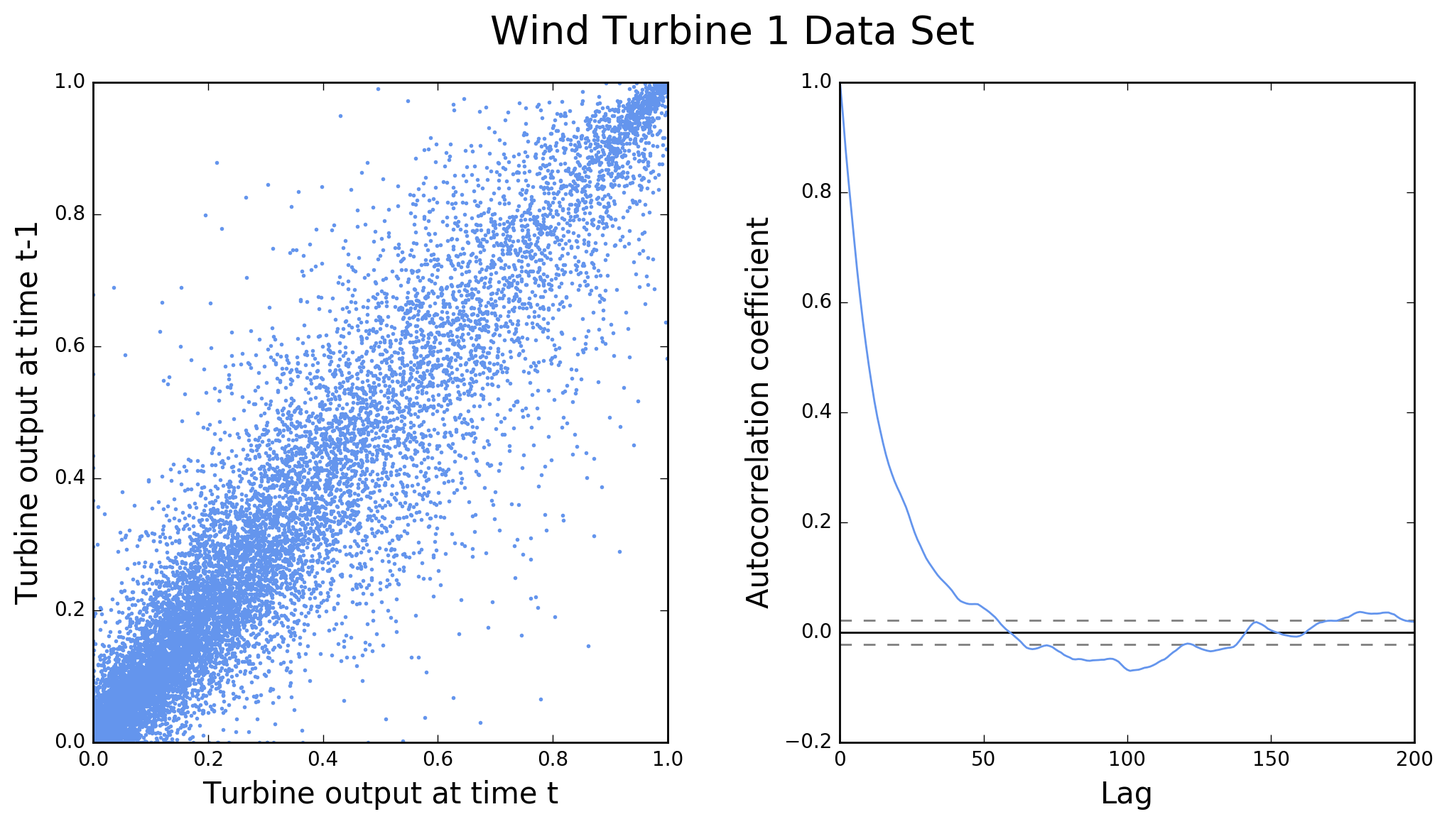
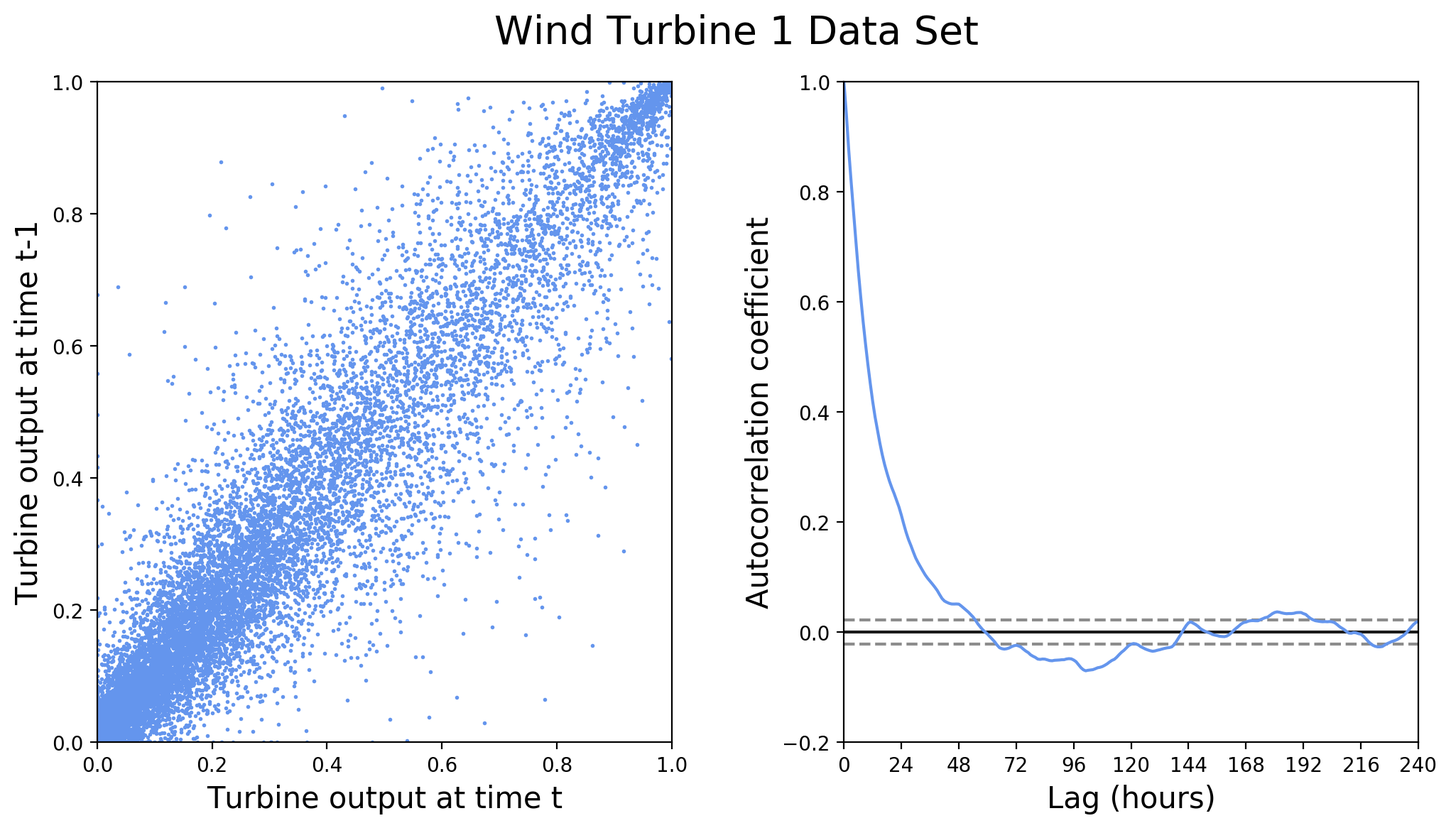
Updated blog post on Wind Turbines

diff --git a/_posts/2017-04-30-WindPower.md b/_posts/2017-04-30-WindPower.md
@@ -2,9 +2,10 @@
 layout: post
 title: "Forecasting Wind Power"
 date: 30 April 2017
-excerpt: "Data collected on the power output of an array of wind turbines provide an interesting case study for machine learning algorithms. I probe it with a random forest from scikit-learn, the gradient boosting algorithm XGBoost, and a generalized linear model from the R package GAMLSS. Choosing the best model can be surprisingly tricky..."
+excerpt: "Data collected on the power output of an array of wind turbines provide an interesting case study for machine learning algorithms. I tried a random forest from scikit-learn, the gradient boosting algorithm XGBoost, and a generalized linear model from the R package GAMLSS. Choosing the best model can be surprisingly tricky..."
 comments: true
 ---
+[Revised 9 January 2020]
 
 {% marginnote 'WTMN-1' '**Contents:** <br>[1. The Hackathon&#39;s Challenge](#TheChallenge) <br>[2. The Wind Turbine Data Set](#WindTurbineDataSet) <br>[3. Random Forest Analysis](#RandomForestAnalysis) <br>[4. Gradient Boosting with XGBoost](#XGBoost) <br>[5. A Generalized Linear Model](#GeneralizedAdditiveModel) <br>[6. Summary and Private Leaderboard](#Summary) <br>[7. Technical Note](#TechnicalNote)' %}
 On July 19 and 20, 2016, the [H2O Open Tour](http://open.h2o.ai/nyc.html) came to the [IAC building](https://en.wikipedia.org/wiki/IAC_Building) in New York City to present their product and foster community with the help of tutorials, talks, social events, and a [hackathon](https://datahack.analyticsvidhya.com/contest/h2o-open-tour-nyc-hackathon/). The hackathon was interesting, so that I (sporadically) continued working on it after the conference. This post summarizes my findings.
@@ -63,29 +64,31 @@ The spectrum displays two noteworthy features: a large spike near 0, and a bump 
 
 Figure 2 illustrates the effect of the cut-in speed for turbine 9. Each dot in this figure is the tip of a horizontal wind velocity vector with tail at (0,0). Orange dots correspond to zero turbine output and congregate at low wind velocities. Blue dots correspond to non-zero turbine output and form a donut shape around the orange ones.
 
-{% maincolumn "assets/img/blog/WindTurbines/donut_plots.png" "Figure 2: Scatter plots of zonal versus meridional wind velocity components at heights of 10m (left) and 100m (right) above ground, for turbine 9. Turbine output is zero for orange dots and greater than zero for blue dots. The red cross at the center of each plot indicates zero wind velocity. Note how wind velocities tend to be higher at 100m than at 10m." %}
+{% maincolumn "assets/img/blog/WindTurbines/donut_plots.png" "Figure 2: Scatter plots of zonal versus meridional wind velocity components at heights of 10m (left) and 100m (right) above ground, for turbine 9. Turbine output is zero for orange dots and greater than zero for blue dots. The red cross at the center of each plot indicates zero wind velocity." %}
 
-Since the measurements were taken at one-hour intervals, they are serially correlated. Figure 3 illustrates this correlation for the turbine-1 power output.
+{% marginfigure "Fig03" "assets/img/blog/WindTurbines/H100_vs_H10.png" "Figure 3: Scatter plot of horizontal wind speed at 100m above ground versus that at 10m above ground, in zone 9. (The wind speed units are unknown.)" %} Note how wind velocities tend to be higher at 100m than at 10m. The simplest model for vertical wind profiles is a [power law](https://en.wikipedia.org/wiki/Wind_profile_power_law), according to which the ratio of wind speeds at two different heights is a constant. Figure 3 illustrates this model by showing horizontal wind speeds measured at 100m above ground, versus 10m, in zone 9.  The model is not very good for the data at hand. The ratio between the two wind speeds in the figure varies between about 1.3 and 3.0, suggesting that knowledge of the wind speed at one height provides only limited information about wind speed at another height.
 
-{% maincolumn "assets/img/blog/WindTurbines/autocorrelations.png" "Figure 3 Left: Scatter plot of turbine 1 output at time t versus turbine 1 output at time t minus one hour. Right: Autocorrelation of turbine 1 outputs for the first 200 lags. The dashed lines indicate the 99% confidence interval on autocorrelation if the latter is purely random." %}
+Since the measurements were taken at one-hour intervals, they are serially correlated. Figure 4 illustrates this correlation for the turbine-1 power output.
 
-Although the data set is structured in such a way that each record associates one of ten turbines with only one set of wind velocity measurements (U10, U100, V10, and V100), it is instructive to see how the power output of a given turbine correlates with wind measurements near other turbines. This is shown in Figure 4 for turbine 1. Note that for this turbine the strongest correlation appears to be with wind speeds measured near turbine 7.
+{% maincolumn "assets/img/blog/WindTurbines/autocorrelations.png" "Figure 4 Left: Scatter plot of turbine 1 output at time t versus turbine 1 output at time t minus one hour. Right: Autocorrelation of turbine 1 outputs for the first 200 lags. The dashed lines indicate the 99% confidence interval on autocorrelation if the latter is purely random." %}
 
-{% fullwidth "assets/img/blog/WindTurbines/power_vs_windspeed.png" "Figure 4: Scatter plots of turbine 1 power output versus horizontal wind speed (the sum in quadrature of U10 and V10). Wind velocity is measured at eight stations located near the ten turbines. Turbines 4 and 5 share a wind measurement station, as do turbines 7 and 8. To facilitate comparison, the x- and y-scales are the same in all subplots." %}
+Although the data set is structured in such a way that each record associates one of ten turbines with only one set of wind velocity measurements (U10, U100, V10, and V100), it is instructive to see how the power output of a given turbine correlates with wind measurements near other turbines. This is shown in Figure 5 for turbine 1. Note that for this turbine the strongest correlation appears to be with wind speeds measured near turbine 7.
 
-Let's look at this more closely. How do turbine power and horizontal wind speed vary as a function of time? This is shown in Figure 5. Peaks in wind speed correspond to peaks in turbine power, and the effect of the cut-in speed is also visible (periods of zero turbine output associated with low, but non-zero wind speed).
+{% fullwidth "assets/img/blog/WindTurbines/power_vs_windspeed.png" "Figure 5: Scatter plots of turbine 1 power output versus horizontal wind speed (the sum in quadrature of U10 and V10). Wind velocity is measured at eight stations located near the ten turbines. Turbines 4 and 5 share a wind measurement station, as do turbines 7 and 8. To facilitate comparison, the x- and y-scales are the same in all subplots." %}
+
+Let's look at this more closely. How do turbine power and horizontal wind speed vary as a function of time? This is shown in Figure 6. Peaks in wind speed correspond to peaks in turbine power, and the effect of the cut-in speed is also visible (periods of zero turbine output associated with low, but non-zero wind speed).
 
 There is also evidence of small random fluctuations on top of broad patterns. Presumably only the broad patterns are significant, being induced by actual changes in wind speed, and the small fluctuations are  measurement errors. For improving turbine output predictions it may help to average out the small fluctuations in measured wind speed, but the fluctuations in measured turbine output represent an irreducible limit on predictability.
 
-{% fullwidth "assets/img/blog/WindTurbines/power_wind_vs_time.png" "Figure 5: Turbine 1 power and zone 7 wind speed, as a function of time in hours, for the first 400 hours in the training data set. The turbine power is expressed as a fraction of total capacity, and the wind speed is rescaled so as to fit in the same plot." %}
+{% fullwidth "assets/img/blog/WindTurbines/power_wind_vs_time.png" "Figure 6: Turbine 1 power and zone 7 wind speed, as a function of time in hours, for the first 400 hours in the training data set. The turbine power is expressed as a fraction of total capacity, and the wind speed is rescaled so as to fit in the same plot." %}
 
 This brief exploration of the data set suggests some strategies for analysis:
 
 1. Use *all* wind measurements for predicting each turbine output. Since there are eight wind velocity measurement stations and four measurements per station, this yields 32 features for predicting turbine output.
 
-2. From the time stamp it may be useful to extract separately year, day of the year, and hour. This could help tease out effects due to daily and seasonal wind patterns.
+2. From the time stamp it may be useful to extract separately year, day of the year, and hour. This could help tease out effects due to daily and seasonal wind patterns. Once we extract time stamp components, two issues arise w.r.t. training models. The first one is data type: are time stamp components numerical or categorical, and how should they be presented to the model? Should we apply one-hot encoding? The second issue is the cyclical nature of the hour and day features. Hour 24 of one day is adjacent to hour 1 of the next day, just as day 365 of one year is adjacent to day 1 of the next year. Should we transform these features to make this adjacency numerically true, and if so, how?
 
-3. Since the observed wind speeds exhibit fluctuations due to measurement error (Figure 5), we may be able to improve precision by computing a rolling window average. In other words, to predict turbine output at time t, use an average of wind speed measurements at times t, t-1, t-2, etc. Exactly how many measurements to include should be determined by looking at the desired performance measure, i.e. RMSE.
+3. Since the observed wind speeds exhibit fluctuations due to measurement error (Figure 6), we may be able to improve precision by computing a rolling window average. In other words, to predict turbine output at time t, use an average of wind speed measurements at times t, t-1, t-2, etc. Exactly how many measurements to include should be determined by looking at the desired performance measure, i.e. the RMSE. Note that if we compute a rolling window average and then randomly split the dataset into training and testing subsets, measurements in the testing subset may be correlated with measurements in the training subset. For example, if we average over three measurements, it is possible that for some t the average of t-1, t, t+1 belongs to the training subset, whereas the average of t, t+1, t+2 belongs to the testing subset. The same problem arises with k-fold cross-validation. A possible solution is to do [time-series splitting](https://scikit-learn.org/stable/modules/generated/sklearn.model_selection.TimeSeriesSplit.html).
 
 4. How should we handle the peak at zero turbine output? Would it help to split the machine learning problem into a classification first (zero turbine output versus nonzero turbine output), followed by a regression on the nonzero outputs?
 
@@ -95,21 +98,21 @@ This brief exploration of the data set suggests some strategies for analysis:
 
 ## Random Forest Analysis
 
-In random forest regression one is averaging a large number of regression trees. Each tree is trained on a resampled version of the training data set, and each tree node is split on a random subset of the features. I tried two methods for making sure that *all* wind measurements can contribute to the forecasting of each turbine's output:
+In random forest regression one is averaging a large number of regression trees. Each tree is trained on a resampled version of the training data set, and each tree node is split on a random subset of the features. I tried two methods for presenting the data to the model:
 
 - **Method 1** is to transform the data so that each record contains all 32 wind speed measurements made at a given time{% sidenote 'WTSN-3' 'The original data set contains all 32 wind velocity measurements made *every hour* during the data-taking period.  These measurements are spread out over different records but there are no missing data.' %}. One can also put the 10 measured turbine outputs in each record, making the prediction target a 10-dimensional vector. The ```scikit-learn``` package can handle multi-dimensional targets, but others (e.g. XGBoost) can't. In that case I used ZONEID to split the data set into ten subsets, one per turbine, which I modeled independently.
 
 - **Method 2** is to leave the given structure of the data in place (four wind measurements per record), but to convert ZONEID into a categorical variable and apply one-hot encoding to it. This yields nine binary variables, each one indicating whether or not TARGETVAR represents the power output of the turbine in the corresponding zone.{% sidenote 'WTSN-4' 'Technically there are ten binary variables, one per turbine, but the first one is deleted to avoid redundancy (since it corresponds to the nine remaining variables being zero).' %} At most one binary variable can be "on" in any given record.
 
-It should be obvious that method 1 allows the modeling of correlations between a given turbine output and wind speed measurements in other zones, since each record in the transformed data contains *all* the wind measurements. Such correlations can also be modeled with method 2, due to the way decision trees work. One could for example have a tree node that is only reachable by zone-1 and zone-7 instances, and which splits based on one of the wind velocity components. This way, a prediction of the zone-1 turbine output could be affected by zone-7 wind measurements in the training sample, even though measurements in the two zones are always contained in separate data records.
+It should be obvious that method 1 allows the modeling of correlations between a given turbine output and wind speed measurements in other zones, since each record in the transformed data contains *all* the wind measurements. Such correlations are not modeled with method 2, but this may not matter because the model will be evaluated based on a root mean squared error *averaged* over all ten turbines.
 
-Note how method 1 produces a dataset of 13,871 records, each of which contains 35 predictors ({% m %} 8*4 {% em %} wind measurements plus 3 time features: year, day of year, and hour). By contrast, method 2 produces a data set of 138,710 records, each with only 16 predictors (4 wind measurements, 9 zone id flags, and 3 time features). From the point of view of training a machine learning algorithm, method 2 may have an advantage --- more data records, fewer predictors per record --- that makes it easier to optimize. As a matter of fact, method 2 gave somewhat better results (see below).
+Note also that method 1 produces a dataset of 13,871 records, each of which contains 35 predictors ({% m %} 8*4 {% em %} wind measurements plus 3 time features: year, day of year, and hour). By contrast, method 2 produces a data set of 138,710 records, each with only 16 predictors (4 wind measurements, 9 zone id flags, and 3 time features). From the point of view of training a machine learning algorithm, method 2 may have an advantage --- more data records, fewer predictors per record --- that makes it easier to optimize. As a matter of fact, method 2 gave somewhat better results (see below).
 
-Another optimization involved implementing a rolling average of wind measurements to predict turbine output. To select the window size of this rolling average, I tried including 1, 2, 3, and 4 measurements in the average. The best RMSE on the test subset was obtained with 3 measurements.
+Another optimization involved implementing a rolling average of wind measurements to predict turbine output. To select the window size of this rolling average, I tried including 1, 2, 3, and 4 measurements in the average. The best RMSE on the test subset was obtained with 3 measurements. Cross-validation was performed with standard K-fold splitting (not time-series splitting).
 
 It is instructive to compare predicted and observed turbine output distributions for Method 2, separately in the training and testing subsets:
 
-{% maincolumn "assets/img/blog/WindTurbines/wind_turbine_output_train_test_rfr16.png" "Figure 6 top: Fractional turbine power output in the training subset, as observed (green histogram) and modeled in Method 2 (blue histogram). The overlap between the two distributions appears in a blue-green shade. Bottom: same for the testing subset." %}
+{% maincolumn "assets/img/blog/WindTurbines/wind_turbine_output_train_test_rfr16.png" "Figure 7 top: Fractional turbine power output in the training subset, as observed (green histogram) and modeled in Method 2 (blue histogram). The overlap between the two distributions appears in a blue-green shade. Bottom: same for the testing subset." %}
 
 The random forest models don't do a very good job of modeling the spike at zero output, or the bump near one. This is shown above for Method 2, but is also true for Method 1.
 
@@ -121,13 +124,13 @@ and for method 2:
 {% math %}
 {\rm RMSE} \;=\; 0.167223.
 {% endmath %}
-In an attempt to improve on these numbers I'll use a more powerful machine learning algorithm in the next section. Also, I'll be using method 1 from now on since that's the only one that works with a generalized linear model (see below).
+In an attempt to improve on these numbers I'll use a more powerful machine learning algorithm in the next section. Also, I'll be using method 1 from now on in order to avoid dealing with the ZONEID categorical features.
 
 The following couple of plots show the feature importances in Methods 1 and 2:
 
-{% maincolumn "assets/img/blog/WindTurbines/rfr35_feature_importances.png" "Figure 7: Feature importances for the random forest model in Method 1. Wind speed labels indicate the zone they belong to. For example, the label of the top feature, U100_rm3_6, refers to the zonal wind speed 100 meters above ground near turbine 6, as a rolling mean over 3 measurements. Some hyper-parameter values used for this model are noted on the plot." %}
+{% maincolumn "assets/img/blog/WindTurbines/rfr35_feature_importances.png" "Figure 8: Feature importances for the random forest model in Method 1. Wind speed labels indicate the zone they belong to. For example, the label of the top feature, U100_rm3_6, refers to the zonal wind speed 100 meters above ground near turbine 6, as a rolling mean over 3 measurements. Some hyper-parameter values used for this model are noted on the plot." %}
 
-{% maincolumn "assets/img/blog/WindTurbines/rfr16_feature_importances.png" "Figure 8: Feature importances for the random forest model in Method 2. Some hyper-parameter values used for this model are noted on the plot. The ZoneId_n features are binary variables, which equal 1 in records where the wind and turbine measurements were made in zone n." %}
+{% maincolumn "assets/img/blog/WindTurbines/rfr16_feature_importances.png" "Figure 9: Feature importances for the random forest model in Method 2. Some hyper-parameter values used for this model are noted on the plot. The ZoneId_n features are binary variables, which equal 1 in records where the wind and turbine measurements were made in zone n." %}
 
 Wind speeds are more important than measurement dates or times, but no single feature stands out by itself.
 
@@ -144,24 +147,22 @@ One of the most popular and powerful implementations of gradient boosting is XGB
 
 Proper tuning of the hyperparameters of XGBoost requires some exploration, but is fairly straightforward. I optimized each turbine separately on a hyperparameter grid, using five-fold cross-validation. For each turbine the training features consisted of all 32 wind speed measurements as well as the year, day of the year, and hour of the observations.
 
-Figure 9 compares observed and predicted turbine output distributions in the training and testing subsets.
+Figure 10 compares observed and predicted turbine output distributions in the training and testing subsets.
 
-{% maincolumn "assets/img/blog/WindTurbines/wind_turbine_output_train_test_xgb.png" "Figure 9 top: Fractional turbine power output in the training subset, as observed (green histogram) and modeled by XGBoost (blue histogram). The overlap between the two distributions appears in a blue-green shade. Bottom: same for the testing subset." %}
+{% maincolumn "assets/img/blog/WindTurbines/wind_turbine_output_train_test_xgb.png" "Figure 10 top: Fractional turbine power output in the training subset, as observed (green histogram) and modeled by XGBoost (blue histogram). The overlap between the two distributions appears in a blue-green shade. Bottom: same for the testing subset." %}
 
-{% marginfigure "Fig10" "assets/img/blog/WindTurbines/H100_vs_H10.png" "Figure 10: Scatter plot of horizontal wind speed at 100m above ground versus that at 10m above ground, in zone 9. (The wind speed units are unknown.)" %}Note how, in the training subset, modeling of the spike at 0 and the bump near 1 is significantly better than with the random forest models. Unfortunately this does not generalize quite as nicely to the testing subset, which hints at overfitting. For further insight, Figure 10 plots horizontal wind speeds measured at 100m above ground, versus 10m, in zone 9. The simplest model for vertical wind profiles is a [power law](https://en.wikipedia.org/wiki/Wind_profile_power_law), according to which the ratio of wind speeds at two different heights is a constant. Here we see that this model is not very good for the data at hand. The ratio between the two wind speeds in Figure 10 varies between about 1.3 and 3.0, suggesting that knowledge of the wind speed at one height provides only limited information about wind speed at another height. Since turbine heights are not known, and presumably different from the heights where wind speeds are measured, this will make it difficult for a regressor algorithm to correctly identify the cut-in speed of a turbine in the training subset, and hence to predict when the turbine power output will be zero in the testing subset. A similar argument explains the defective modeling of the bump near 1 in Figure 9, bottom.
-
-In spite of these problems I computed the performance measure for XGBoost on the test set of the public leaderboard of the hackathon. This yielded
+Note how, in the training subset, modeling of the spike at 0 and the bump near 1 is significantly better than with the random forest models. Unfortunately this does not generalize quite as nicely to the testing subset, which hints at overfitting. In spite of this problem I computed the performance measure for XGBoost on the test set of the public leaderboard of the hackathon. This yielded
 {% math %}
 {\rm RMSE} \;=\; 0.167607.
 {% endmath %}
 
 For the record, Figure 11 shows a plot of feature importances, averaged over all turbines.
 
-{% maincolumn 'assets/img/blog/WindTurbines/xgb35_feature_importances.png' 'Figure 11: Feature importances for the XGBoost model, averaged over all turbines. Feature labels are the same as those in Figure 7.' %}
+{% maincolumn 'assets/img/blog/WindTurbines/xgb35_feature_importances.png' 'Figure 11: Feature importances for the XGBoost model, averaged over all turbines. Feature labels are the same as those in Figure 8.' %}
 
 XGBoost makes better use of the "DAYOFYEAR" and "HOUR" features than the random forest models. Here for example, "DAYOFYEAR" is the third most important feature, whereas in random forest models it scores below all the wind velocity measurements.
 
-As suggested earlier, I tried to improve on this result by first classifying turbine outputs as either "equal to zero" or "greater than zero", and then performing a regression on the latter outputs. Both steps were performed with XGBoost, but no improvement was obtained. Perhaps this is not so surprising in light of the above discussion of Figure 10.
+As suggested earlier, I tried to improve on this result by first classifying turbine outputs as either "equal to zero" or "greater than zero", and then performing a regression on the latter outputs. Both steps were performed with XGBoost, but no improvement was obtained.
 
 {% marginnote "btt-4" "[Back to Top](#TopOfPage)" %}
 
@@ -169,9 +170,9 @@ As suggested earlier, I tried to improve on this result by first classifying tur
 
 ## A Generalized Linear Model
 
-For predicting the power output of a wind turbine, one could argue that the only features that matter are the *magnitudes* of the horizontal wind velocities near the turbines. The directions of the wind velocity vectors shouldn't matter since a turbine always orients itself to maximize its capture of wind power. The timing of wind measurements could add some useful information due to the cyclic nature of daily and seasonal wind patterns. However this is not expected to be a major effect. By taking the wind velocity magnitudes as the only predictors, it should be possible to simplify the prediction model considerably and perhaps gain some interpretability.
+For predicting the power output of a wind turbine, one could argue that the only features that matter are the *magnitudes* of the horizontal wind velocities near the turbines. The directions of the wind velocity vectors shouldn't matter since a turbine always orients itself to maximize its capture of wind power. The timing of wind measurements could add some useful information due to the cyclic nature of daily and seasonal wind patterns, but this is not expected to be a major effect. By taking the wind velocity magnitudes as the only predictors, it should be possible to simplify the prediction model considerably and perhaps gain some interpretability. The resulting model may not perform better however, since turbulence effects distort wind speed measurements as well as the generation of turbine power.
 
-Ideally one would like to use a linear regression model, but this won't work here since the response variable is bounded between 0 and 1. A generalized linear model with a two-parameter [beta distribution](https://en.wikipedia.org/wiki/Beta_distribution) for the response variable is a better option. Unfortunately the beta distribution does not assign finite probabilities to the boundaries 0 and 1, and in the problem at hand we have a large peak at 0 as well as a few instances at 1 (see Figure 1). A possible solution is to use the so-called "beta inflated distribution": a mixture of a beta distribution, a peak at 0, and a peak at 1. As far as I know, only R provides a package that can handle this problem, namely [GAMLSS](http://www.gamlss.org/), which stands for "Generalized Additive Models for Location, Scale, and Shape".
+Ideally one would like to use a linear regression model, but this won't work here since the response variable is bounded between 0 and 1. A generalized linear model with a two-parameter [beta distribution](https://en.wikipedia.org/wiki/Beta_distribution) for the response variable is a better option. Unfortunately the beta distribution does not assign finite probabilities to the boundaries 0 and 1, and in the problem at hand we have a large peak at 0 as well as a few instances at 1 (see Figure 1). A possible solution is to use the so-called "beta inflated distribution": a mixture of a beta distribution, a peak at 0, and a peak at 1. As far as I know, only R provides a package that can handle this problem, namely [GAMLSS](http://www.gamlss.com/), which stands for "Generalized Additive Models for Location, Scale, and Shape".
 
 First a word about GAMLSS. This is a very general framework for regression models. In ordinary linear regression the response variable has a normal distribution; its mean is a linear function of the predictor variables and its width is constant (homoscedasticity). In GAMLSS the response variable can have almost any distribution, discrete or continuous, and *all* the parameters of the response variable distribution (not just the mean) can be modeled via sums of functions (not necessarily linear) of the predictors.
 
@@ -268,21 +269,28 @@ Based on the public leaderboard one could go with either Random Forest 2 or GAML
 
 Random Forest 2 and GAMLSS, the top two winners on the public leaderboard, don't do so well on the private leaderboard, where XGBoost is the clear winner.
 
-Figure 13 provides another way to look at this case. It shows weekly root-mean-square errors over the entire hackathon data set. Again it is remarkable how well XGBoost fits the training data set. But when we look at the testing portion of the data set (the last 18 weeks), week-to-week fluctuations are so large that it is hard to pick out a winner.
+There is a way to improve even further on these results, by a technique known as stacking, where the outputs of several models are used as input to a new model. For simplicity we will choose as new model one that predicts the average of its inputs. We will only use our top three models as inputs: Random Forest 2, XGBoost, and GAMLSS. The result is in the table below:
 
-{% maincolumn "assets/img/blog/WindTurbines/weekly_rmse_all.png" "Figure 13: Weekly root-mean-square errors over the entire hackathon data set, for the four models studied in this post. The first 82 weeks correspond to the training set and the remainder to the testing set (nine weeks for the public leaderboard followed by nine weeks for the private leaderboard)." %}
+{% marginnote "WTMN-6" "Table 5: Root-mean-square errors on the public and private leaderboards for all models, including the final stacking model, which averages the outputs of Random Forest 2, XGBoost, and GAMLSS." %}
 
-Note that the worse a model's fit is to a data set, the larger its week-to-week fluctuations are in the same data set. This is just a statistical effect. The RMSE is the square root of a [(non-central) chi-squared variate](https://en.wikipedia.org/wiki/Noncentral_chi-squared_distribution), for which variance and mean increase and decrease together.
+| Model           | Public Leaderboard      | Private Leaderboard      |
+|:----------------|:-----------------------:|:------------------------:|
+| Random Forest 1 | 0.180311                | 0.178977                 |
+| Random Forest 2 | 0.167223                | 0.174105                 |
+| XGBoost         | 0.167607                | 0.168778                 |
+| GAMLSS          | 0.167303                | 0.176077                 |
+| Stacking        | 0.157353                | 0.164689                 |
 
-The jump in performance between the training and testing data sets is quite striking for the tree-based models. A large jump could be an indication of overfitting. As argued above, XGBoost is probably overfitting the spike at 0 and the bump near 1 in the turbine output spectra. In contrast, there is no perceptible jump for the generalized linear model, and this could be an indication of underfitting.
 
-I had hoped to use the above plot to draw conclusions about model trends beyond the training period (for example, does the RMSE get worse as time elapses after training?) Unfortunately the fluctuations are too large to permit a meaningful statement.
+Figure 13 compares predicted and actual turbine 1 power during the second week of the public leaderboard for the bottom four models.
+
+{% maincolumn "assets/img/blog/WindTurbines/pred_actual_vs_time.png" "Figure 13: Actual and predicted turbine 1 power output during the second week of the public leaderboard, for the four best models." %}
 
 Here are some lessons that can be drawn from the  whole exercise:
 
-1. A machine learning algorithm may perform differently depending on how the data are presented to it. This is the only difference between random forest models 1 and 2, and the latter is clearly better than the former on the testing set.
+1. A machine learning algorithm may perform differently depending on how the data are presented to it. This is the only difference between random forest models 1 and 2. The latter is clearly better than the former on the testing set, but this is most likely due to the way the performance measure is constructed (by averaging the RMSE over all turbines).
 
-2. XGBoost is remarkable in its ability to model "singular" features such as the peak near zero turbine output. This is probably because of the way gradient boosting works, each tree acting mostly on instances mismodeled by the previous trees. In contrast, a random forest averages the results of independent trees, and this must have a smoothing effect on singularities. A similar effect is at work with generalized linear regression models (see the [equation for {% m %}y_{\rm pred}{% em %}](#YpredEquation) in the section on GAMLSS: {% m %}y_{\rm pred}{% em %} can never be exactly zero since it is a weighted average over the three components of a mixture.) Unfortunately, XGBoost's ability to model singularities in the training data set was partially the result of overfitting, the available wind speed measurements being not sufficiently informative.
+2. XGBoost is remarkable in its ability to model "singular" features such as the peak near zero turbine output. This is probably because of the way gradient boosting works, each tree acting mostly on instances mismodeled by the previous trees. In contrast, a random forest averages the results of independent trees, and this must have a smoothing effect on singularities. A similar effect is at work with generalized linear regression models (see the [equation for {% m %}y_{\rm pred}{% em %}](#YpredEquation) in the section on GAMLSS: {% m %}y_{\rm pred}{% em %} can never be exactly zero since it is a weighted average over the three components of a mixture.) Unfortunately, XGBoost's ability to model singularities in the training data set was partially the result of overfitting.
 
 3. Generalized linear models are very fast to train, but there may be a tradeoff to consider between training speed and modeling performance.
 
